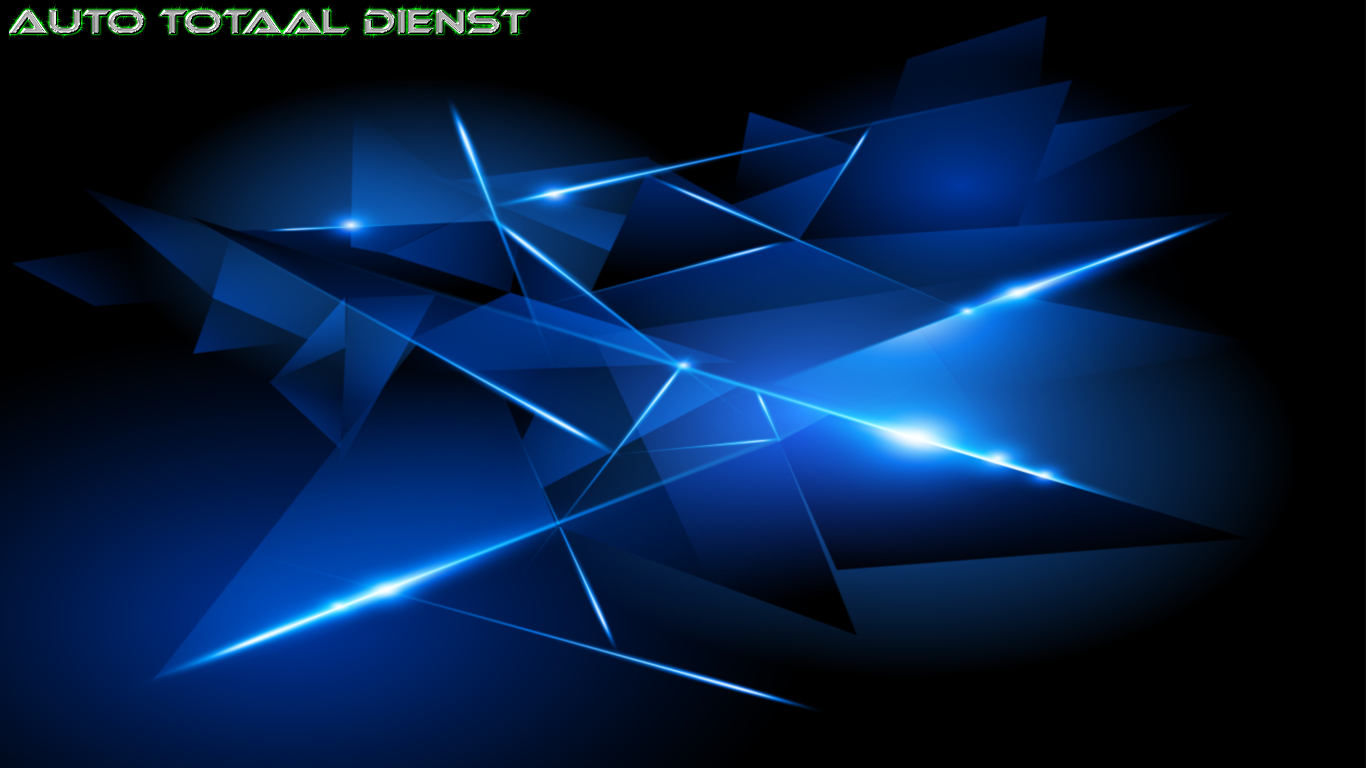
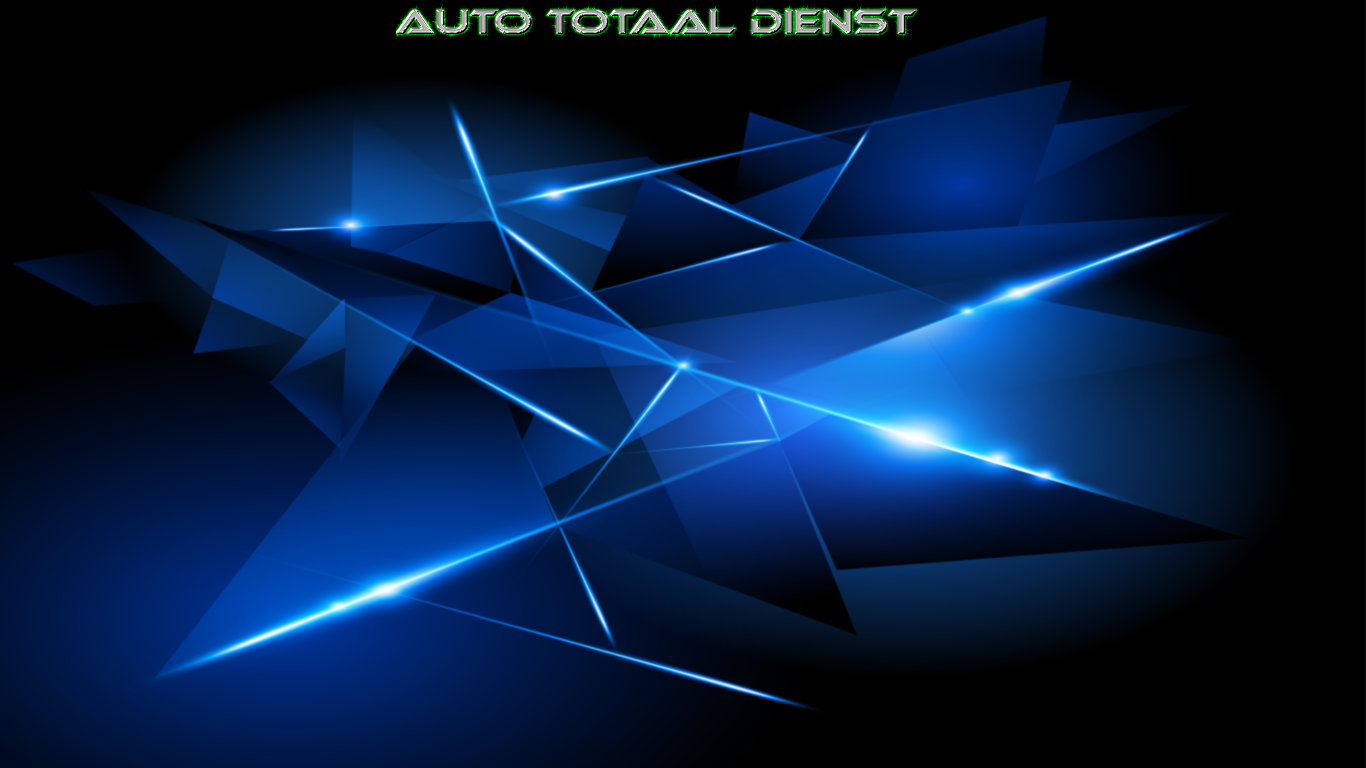
StyleStuff Profiel start

Changed region(s): [[0.0, 0.0, 0.6764, 0.0625]]

diff --git a/NetBeansProjects/ATD-web/src/main/webapp/css/Stylesheet.css b/NetBeansProjects/ATD-web/src/main/webapp/css/Stylesheet.css
@@ -1,5 +1,7 @@
 body {
-    background: url(../img/Background.png) no-repeat;
+    background-image: url(../img/Background.png);
+    background-repeat: no-repeat;
+    background-size: 100%;
 }
 
 label {
@@ -77,8 +79,10 @@ ul li ul li:hover {
 }
 
 #container {
+    position: relative;
     margin: 0 auto;
-    width: 50%;
+    top:50px;
+    width: 60%;
     height: 100%;
     background: white;
 }
@@ -104,7 +108,7 @@ ul li ul li:hover {
 
 #menu {
     margin-right: 15px;
-    width: 674px;
+    width: 100%;
     border: solid 1px black;
 }
 
@@ -113,7 +117,7 @@ ul li ul li:hover {
     display: block;
     padding: 2px;
     margin: 10px 0px 2px 0px;
-    //float: right;
+    float: right;
 }
 
 .loginButton {
@@ -125,7 +129,8 @@ ul li ul li:hover {
 }
 
 #button {
-   background: url('../img/Button chrome.png') no-repeat;
+   background-image: url('../img/Button chrome.png');
+   background-repeat: no-repeat;
 }
 
 
